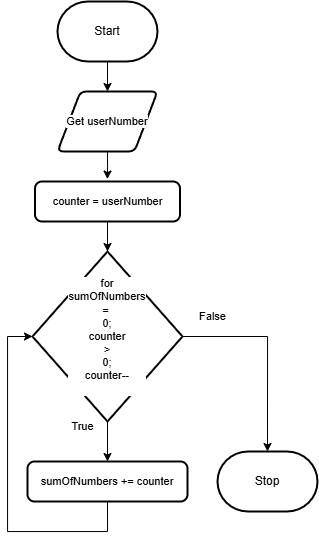
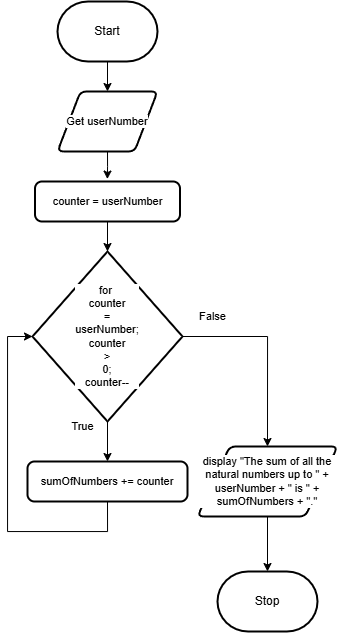
created program that calculates the sum of numbers and updated flowchart

diff --git a/index.html b/index.html
@@ -1,9 +1,59 @@
-<!DOCTYPE html>
-<html>
-  <head>
-    <title>Title</title>
-  </head>
-  <body>
-    <p>Paragraph</p>
-  </body>
+<!-- ICS2O-Unit5-07-JS -->
+<html lang="en-ca">
+
+<head>
+  <meta charset="utf-8" />
+  <meta name="description" content="Sum of Numbers with Addition, in JS" />
+  <meta name="keywords" content="mths, icd2o" />
+  <meta name="author" content="Bain Liao" />
+  <meta name="viewport" content="width=device-width, initial-scale=1.0" />
+  <link rel="stylesheet" href="https://fonts.googleapis.com/icon?family=Material+Icons" />
+  <link rel="stylesheet" href="https://code.getmdl.io/1.3.0/material.light_blue-orange.min.css" />
+  <link rel="stylesheet" href="./css/style.css" />
+  <link rel="apple-touch-icon" sizes="180x180" href="./apple-touch-icon.png" />
+  <link rel="icon" type="image/png" sizes="32x32" href="./favicon-32x32.png" />
+  <link rel="icon" type="image/png" sizes="16x16" href="./favicon-16x16.png" />
+  <link rel="manifest" href="./site.webmanifest" />
+  <title>Sum of Numbers with Addition, in JS</title>
+</head>
+
+<body>
+  <script defer src="https://code.getmdl.io/1.3.0/material.min.js"></script>
+  <script src="./js/script.js"></script>
+  <div class="mdl-layout mdl-js-layout mdl-layout--fixed-header">
+    <header class="mdl-layout__header">
+      <div class="mdl-layout__header-row">
+        <span class="mdl-layout-title">Sum of Numbers with Addition, in JS</span>
+      </div>
+    </header>
+    <main class="mdl-layout__content">
+      <div class="right-image">
+        <img src="./images/sum_of_numbers_formula.png" alt="Formula" />
+      </div>
+      <div class="page-content">Please enter in a number and it add up the sum of all the numbers before it.</div>
+      <br />
+      <!-- Simple Textfield for integers-->
+      <form action="#">
+        <div class="mdl-textfield mdl-js-textfield">
+          <!-- input pattern attribute -->
+          <input class="mdl-textfield__input" type="text" pattern="-?[0-9]*(\.[0-9]+)?" id="user-number" />
+          <!-- mdl-textfield__label -->
+          <label class="mdl-textfield__label" for="demo-input">Number...</label>
+          <!-- class "mdl-textfield__error" -->
+          <span class="mdl-textfield__error">Input is not a number</span>
+        </div>
+        <br />
+        <!-- Accent-colored raised button with ripple -->
+        <button class="mdl-button mdl-js-button mdl-button--raised mdl-js-ripple-effect mdl-button--accent"
+          onclick="calculateSumOfNumbers()" type="button">
+          Calculate
+        </button>
+      </form>
+      <br />
+      <div class="page-content">
+        <div id="result"></div>
+      </div>
+    </main>
+  </div>
+</body>
 </html>

diff --git a/css/style.css b/css/style.css
@@ -1,4 +1,40 @@
-/* Created by: Mr. Coxall
-* Created on: Sep 2020
+/* Created by: Bain Liao
+* Created on: May 2025
 * This file contains the CSS for index.html
 */
+
+.mdl-layout__header-row {
+  justify-content: center;
+  padding: 0;
+}
+
+.mdl-layout__content {
+  padding-left: 15pt;
+  padding-right: 15pt;
+  padding-top: 15pt;
+}
+
+.mdl-textfield__error {
+  color: #F00;
+}
+
+.mdl-textfield--floating-label.is-focused .mdl-textfield__label,
+.mdl-textfield--floating-label.is-dirty .mdl-textfield__label,
+.mdl-textfield--floating-label.has-placeholder .mdl-textfield__label {
+  color: #929292;
+}
+
+.page-content {
+  color: #000;
+  font-family: "Times New Roman", Times, monospace;
+  font-size: 1.25rem;
+}
+
+body {
+  background-color: #dbf8fa;
+}
+
+img {
+  float: right;
+  height: 200px;
+}

diff --git a/js/script.js b/js/script.js
@@ -1,5 +1,22 @@
 // Copyright (c) 2020 Mr. Coxall All rights reserved
 //
-// Created by: Mr. Coxall
-// Created on: Sep 2020
+// Created by: Bain Liao
+// Created on: May 2025
 // This file contains the JS functions for index.html
+
+"use strict"
+
+/**
+ * This function calculates the sum of numbers.
+ */
+function calculateSumOfNumbers() {
+  const userNumber = parseInt(document.getElementById("user-number").value)
+  let sumOfNumbers = 0
+
+  for (let counter = userNumber; counter > 0; counter--) {
+    sumOfNumbers += counter
+  }
+
+  document.getElementById("result").innerText =
+    "The sum of all the natural numbers up to " + userNumber + " is " + sumOfNumbers + "."
+}
